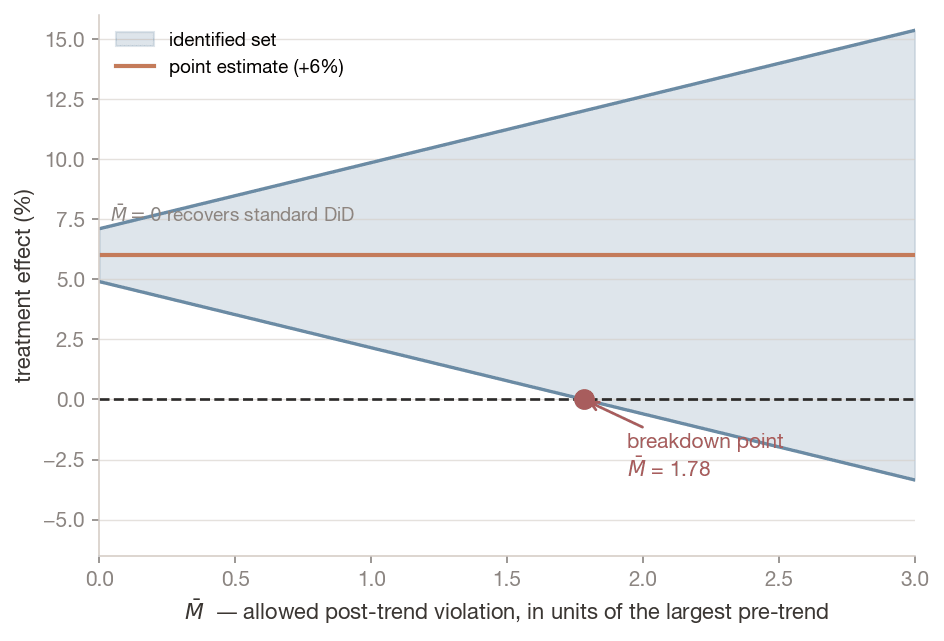
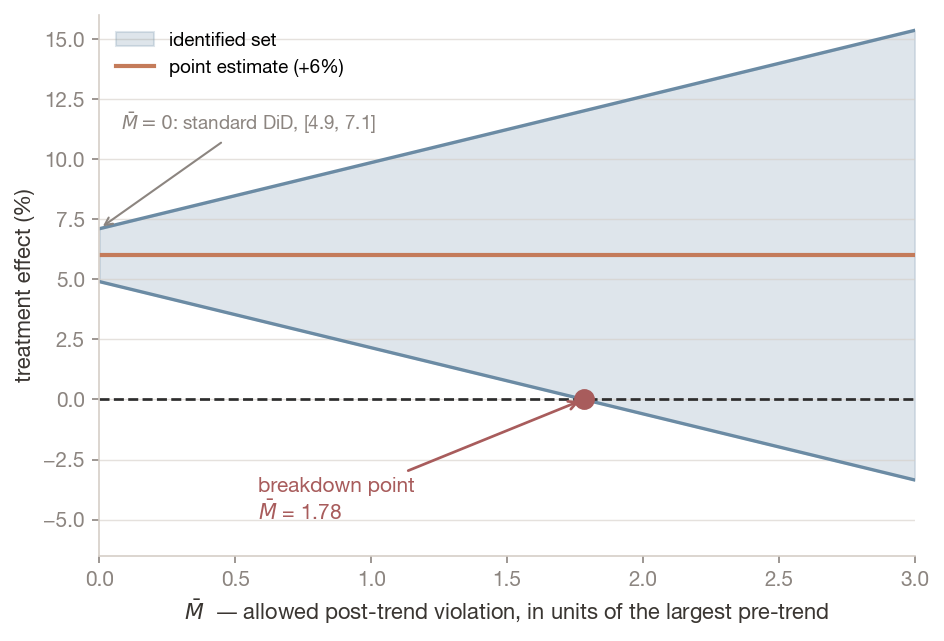
Wed 28 Oct: Topic 11 Honest DiD chart back as its own slide under the walk, read at three values of M-bar, with its labels moved off the lines

diff --git a/ch11-identification-did/index.html b/ch11-identification-did/index.html
@@ -1,7 +1,7 @@
 <!doctype html>
 <html lang="en">
 <head>
-<meta name="deck-build" content="public; speaker notes removed by strip_notes.py; out=165314e55e4e2f0d30d779b7e271632d">
+<meta name="deck-build" content="public; speaker notes removed by strip_notes.py; out=fc1aaf654a59fcee26a23a71eb4d8843">
   <meta charset="utf-8">
   <meta name="viewport" content="width=device-width, initial-scale=1.0">
   <title>Identification Strategy & Difference-in-Differences</title>
@@ -838,12 +838,31 @@
         </div></div>
       </section>
 
+      <section>
       <section id="honest-did" style="padding: 30px 45px;">
         <h2><i class="fa-solid fa-arrows-left-right-to-line" style="color: var(--secondary-color);"></i> Honest DiD: The Breakdown Point</h2>
         <p style="font-size: 13.5pt; margin-top: 6px; line-height: 1.45;">Rambachan and Roth (2023): instead of assuming parallel trends <em>exactly</em>, allow the trend after treatment to break by up to <strong>M&#772; times the largest break you can already see before treatment</strong>, and report every effect still consistent with the data. <span style="color:#8C8580">(Illustration: an estimate of +6%.)</span></p>
         <div class="hd-plot mathjax_ignore tex2jax_ignore" style="margin-top: 4px;"></div>
         <div class="hd-readout mathjax_ignore tex2jax_ignore" style="font-size: 14.5pt; line-height: 1.45; margin: 2px 10px 0; min-height: 2.9em;"></div>
         <span class="fragment hd-step" data-step="1" style="display:none"></span><span class="fragment hd-step" data-step="2" style="display:none"></span><span class="fragment hd-step" data-step="3" style="display:none"></span><span class="fragment hd-step" data-step="4" style="display:none"></span>
+      </section>
+      <section id="honest-did-figure" style="padding: 24px 45px;">
+        <h2><i class="fa-solid fa-chart-area" style="color: var(--secondary-color);"></i> Honest DiD: The Whole Band</h2>
+        <div style="display: grid; grid-template-columns: 58% 42%; gap: 18px; margin-top: 6px; align-items: center;">
+          <div style="display: flex; justify-content: center;">
+            <img alt="Honest DiD identified set widening as M-bar increases, with the point estimate at plus 6 percent and the identified set first including zero at a breakdown point of M-bar equal to 1.78" src="figures/figure_008_honest_did.png" style="max-height: 430px; max-width: 100%; object-fit: contain;">
+          </div>
+          <div>
+            <p style="font-size: 13.5pt; margin: 0 0 10px;">The same estimate, <strong>+6%</strong>, read at three values of M&#772;. Every effect inside the band is consistent with the data.</p>
+            <div style="display: grid; grid-template-columns: 1fr; gap: 8px;">
+              <div style="background: #f8f6f3; border-top: 4px solid var(--success-color); border-radius: 8px; padding: 8px 12px; text-align: center;"><p style="font-size: 12pt; margin: 0; color: var(--muted-color);">M&#772; = 0</p><p style="font-size: 18pt; font-weight: 700; margin: 2px 0;">[4.9, 7.1]</p><p style="font-size: 11.5pt; margin: 0; color: var(--muted-color);">standard DiD: excludes 0</p></div>
+              <div class="fragment fade-up"><div style="background: #f8f6f3; border-top: 4px solid var(--secondary-color); border-radius: 8px; padding: 8px 12px; text-align: center;"><p style="font-size: 12pt; margin: 0; color: var(--muted-color);">M&#772; = 1</p><p style="font-size: 18pt; font-weight: 700; margin: 2px 0;">[2.2, 9.9]</p><p style="font-size: 11.5pt; margin: 0; color: var(--muted-color);">breaks as big as the largest pre-trend: still excludes 0</p></div></div>
+              <div class="fragment fade-up"><div style="background: #f8f6f3; border-top: 4px solid var(--danger-color, #A85C5C); border-radius: 8px; padding: 8px 12px; text-align: center;"><p style="font-size: 12pt; margin: 0; color: var(--muted-color);">M&#772; = 1.78</p><p style="font-size: 18pt; font-weight: 700; margin: 2px 0;">[0.0, 12.0]</p><p style="font-size: 11.5pt; margin: 0; color: var(--muted-color);">0 just enters: the breakdown point</p></div></div>
+            </div>
+          </div>
+        </div>
+        <p class="fragment fade-up" style="font-size: 13.5pt; margin-top: 12px;"><strong>Report the 1.78, not a pre-test.</strong> It says how much worse than anything seen before treatment the trend would have to break before the +6% could be zero. <span style="color:#8C8580">(Illustration.)</span></p>
+      </section>
       </section>
 
       <section id="two-period" style="padding: 34px 55px;">
